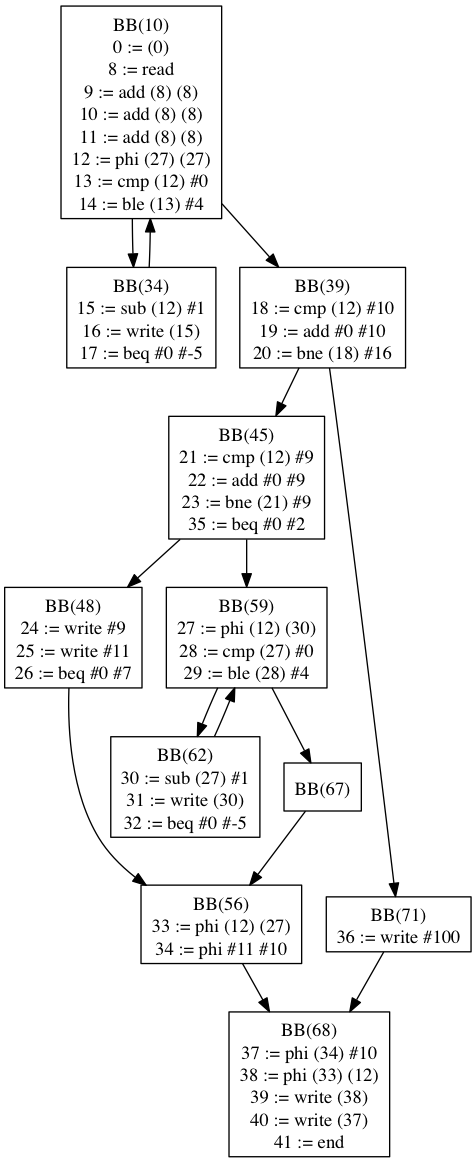
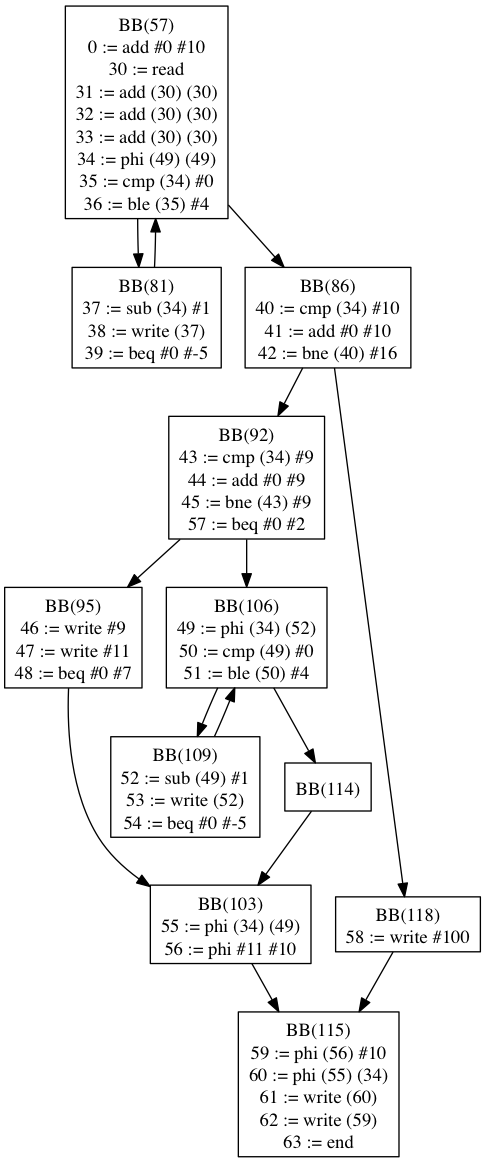
Function hookup - how to handle basic blocks and whatnot?

diff --git a/project/src/com/uci/cs241/pl241/frontend/PLParser.java b/project/src/com/uci/cs241/pl241/frontend/PLParser.java
@@ -23,6 +23,7 @@ public class PLParser
 	
 	// Useful things to help the parser
 	private boolean globalVariableParsing;
+	private boolean globalFunctionParsing;
 	private ArrayList<PLIRInstruction> globalVariables = new ArrayList<PLIRInstruction>(); 
 	
 	// Other necessary things
@@ -83,8 +84,10 @@ public class PLParser
 	}
 	
 	// this is what's called - starting with the computation non-terminal
-	public PLIRBasicBlock parse(PLScanner in) throws PLSyntaxErrorException, IOException, PLEndOfFileException
+	public ArrayList<PLIRBasicBlock> parse(PLScanner in) throws PLSyntaxErrorException, IOException, PLEndOfFileException
 	{
+		ArrayList<PLIRBasicBlock> blocks = new ArrayList<PLIRBasicBlock>();
+		
 		PLIRBasicBlock result = new PLIRBasicBlock();
 		advance(in);
 		if (toksym == PLToken.mainToken)
@@ -101,25 +104,27 @@ public class PLParser
 			}
 			globalVariableParsing = false;
 			
+			globalFunctionParsing = true;
 			while (toksym == PLToken.funcToken || toksym == PLToken.procToken)
 			{
-				// TODO: merge together, but make a separate BB from the ones above, and tie the BB to the procedure/function name
 				int funcType = toksym;
-				result = this.parse_funcDecl(in); // a separate BB for each function/procedure
+				PLIRBasicBlock funcEntry = this.parse_funcDecl(in); // a separate BB for each function/procedure
+				funcEntry.label = funcName;
+				blocks.add(funcEntry);
 				
 				switch (funcType)
 				{
 				case PLToken.funcToken:
-					funcBlockMap.put(funcName, result); // save this so that others may use it
+					funcBlockMap.put(funcName, funcEntry); // save this so that others may use it
 					funcFlagMap.put(funcName, true);
 					break;
 				case PLToken.procToken:
-					procBlockMap.put(funcName, result); // save this so that others may use it
+					procBlockMap.put(funcName, funcEntry); // save this so that others may use it
 					funcFlagMap.put(funcName, false);
 					break;
 				}
-				
 			}
+			globalFunctionParsing = false;
 			
 			if (toksym == PLToken.openBraceToken)
 			{
@@ -148,6 +153,7 @@ public class PLParser
 					{
 						PLIRInstruction inst = new PLIRInstruction(scope, PLIRInstructionType.END);
 						result.addInstruction(inst);
+						blocks.add(root);
 					}
 					else
 					{
@@ -169,7 +175,7 @@ public class PLParser
 			SyntaxError("Computation does not begin with main keyword");
 		}
 		
-		return root;
+		return blocks;
 	}
 
 	// non-terminal
@@ -255,8 +261,8 @@ public class PLParser
 		}
 		else
 		{
-//			debug("Previously unencountered identifier: " + sym);
-			SyntaxError("Previously unencountered identifier: " + sym);
+			debug("Previously unencountered identifier: " + sym);
+//			SyntaxError("Previously unencountered identifier: " + sym);
 		}
 		
 		PLIRInstruction inst = scope.getCurrentValue(sym);
@@ -648,6 +654,47 @@ public class PLParser
 						result = new PLIRBasicBlock();
 						result.hasReturn = funcFlagMap.get(funcName); // special case... this is a machine instruction, not a user-defined function
 						result.addInstruction(callInst);
+						result.isEntry = true;
+						
+						// Add the function BB connections 
+						if (this.funcBlockMap.containsKey(funcName))
+						{
+							result.children.add(funcBlockMap.get(funcName));
+							
+							// Navigate to join node on the function...
+							if (funcBlockMap.get(funcName).joinNode == null)
+							{
+								funcBlockMap.get(funcName).children.add(result);
+							}
+							else
+							{
+								PLIRBasicBlock join = funcBlockMap.get(funcName).joinNode;
+								while (join.joinNode != null)
+								{
+									join = join.joinNode;
+								}
+								join.children.add(result);
+							}
+						}
+						else if (this.procBlockMap.containsKey(funcName))
+						{
+							result.children.add(procBlockMap.get(funcName));
+							
+							// Navigate to join node on the function...
+							if (procBlockMap.get(funcName).joinNode == null)
+							{
+								procBlockMap.get(funcName).children.add(result);
+							}
+							else
+							{
+								PLIRBasicBlock join = procBlockMap.get(funcName).joinNode;
+								while (join.joinNode != null)
+								{
+									join = join.joinNode;
+								}
+								join.children.add(result);
+							}
+						}
 						
 						// Update DU chain
 						for (PLIRInstruction operand : operands)
@@ -684,6 +731,47 @@ public class PLParser
 				result = new PLIRBasicBlock();
 				result.hasReturn = funcFlagMap.get(funcName); // special case... this is a machine instruction, not a user-defined function
 				result.addInstruction(callInst);
+				result.isEntry = true;
+				
+				// Add the function BB connections 
+				if (this.funcBlockMap.containsKey(funcName))
+				{
+					result.children.add(funcBlockMap.get(funcName));
+					
+					// Navigate to join node on the function...
+					if (funcBlockMap.get(funcName).joinNode == null)
+					{
+						funcBlockMap.get(funcName).children.add(result);
+					}
+					else
+					{
+						PLIRBasicBlock join = funcBlockMap.get(funcName).joinNode;
+						while (join.joinNode != null)
+						{
+							join = join.joinNode;
+						}
+						join.children.add(result);
+					}
+				}
+				else if (this.procBlockMap.containsKey(funcName))
+				{
+					result.children.add(procBlockMap.get(funcName));
+					
+					// Navigate to join node on the function...
+					if (procBlockMap.get(funcName).joinNode == null)
+					{
+						procBlockMap.get(funcName).children.add(result);
+					}
+					else
+					{
+						PLIRBasicBlock join = procBlockMap.get(funcName).joinNode;
+						while (join.joinNode != null)
+						{
+							join = join.joinNode;
+						}
+						join.children.add(result);
+					}
+				}
 			}
 			else
 			{
@@ -1120,7 +1208,7 @@ public class PLParser
 		boolean isReturn = toksym == PLToken.returnToken;
 		PLIRBasicBlock result = parse_statement(in);
 		
-		if (root == null)
+		if (root == null && !globalFunctionParsing)
 		{
 			root = result;
 		}

diff --git a/project/src/PLC.java b/project/src/PLC.java
@@ -56,18 +56,24 @@ public class PLC
 		//// RUN THE PARSER
 		scanner = new PLScanner(args[0]);
 		PLParser parser = new PLParser();
-		PLIRBasicBlock exit = parser.parse(scanner);
+		ArrayList<PLIRBasicBlock> blocks = parser.parse(scanner);
 		
-		// Find the root by walking up the tree in any direction
-		PLIRBasicBlock root = exit;
-		while (root.parents.isEmpty() == false)
+		for (PLIRBasicBlock block : blocks)
 		{
-			root = root.parents.get(0);
+			// Find the root by walking up the tree in any direction
+			PLIRBasicBlock root = block;
+			while (root.parents.isEmpty() == false)
+			{
+				root = root.parents.get(0);
+			}
+			
+			// Perform CSE, starting at the root
+			CSE cse = new CSE();
+			//cse.performCSE(root);
 		}
 		
-		// Perform CSE, starting at the root
-		CSE cse = new CSE();
-		cse.performCSE(root);
+		// Recover the main root
+		PLIRBasicBlock root = blocks.get(blocks.size() - 1);
 		
 		// Display the instructions
 		System.out.println("\nBegin Instructions\n");

diff --git a/project/src/com/uci/cs241/pl241/ir/PLIRBasicBlock.java b/project/src/com/uci/cs241/pl241/ir/PLIRBasicBlock.java
@@ -32,6 +32,7 @@ public class PLIRBasicBlock
 	
 	// For rendering
 	public boolean omit = false;
+	public String label = "";
 	
 	// TODO: need to compute this for the dominator tree algorithm!!!
 	public int treeSize;
@@ -176,11 +177,6 @@ public class PLIRBasicBlock
 	
 	public void propagatePhi(String var, PLIRInstruction phi, ArrayList<PLIRBasicBlock> visited)
 	{
-		if (phi.id == 27)
-		{
-			System.out.println("here");
-		}
-		
 		PLIRInstruction findPhi = phi;
 		PLIRInstruction replacePhi = phi;
 		

diff --git a/project/src/com/uci/cs241/pl241/visualization/GraphvizRender.java b/project/src/com/uci/cs241/pl241/visualization/GraphvizRender.java
@@ -19,7 +19,12 @@ public class GraphvizRender
 	{
 		StringBuilder builder = new StringBuilder();
 		
-		builder.append("\n" + prefix + block.id + "[shape = box, label = \"BB(" + block.id + ")\\n\"");
+		builder.append("\n" + prefix + block.id + "[shape = box, label = \"BB(" + block.id); 
+		if (block.label.length() > 0)
+		{
+			builder.append(" [ " + block.label + " ]");
+		}
+		builder.append(")\\n\"");
 		if (block.instructions.size() > 0)
 		{
 			ArrayList<String> instSeq = block.instSequence(seen);

diff --git a/project/src/com/uci/cs241/pl241/ir/PLIRInstruction.java b/project/src/com/uci/cs241/pl241/ir/PLIRInstruction.java
@@ -49,7 +49,8 @@ public class PLIRInstruction
 		while (base != null)
 		{
 			prev = base;
-			if (base.refInst.id == base.id) base = null;
+			if (base.refInst == null) base = null;
+			else if (base.refInst.id == base.id) base = null;
 			else base = base.refInst;
 		}
 		this.origIdent = prev.origIdent;
